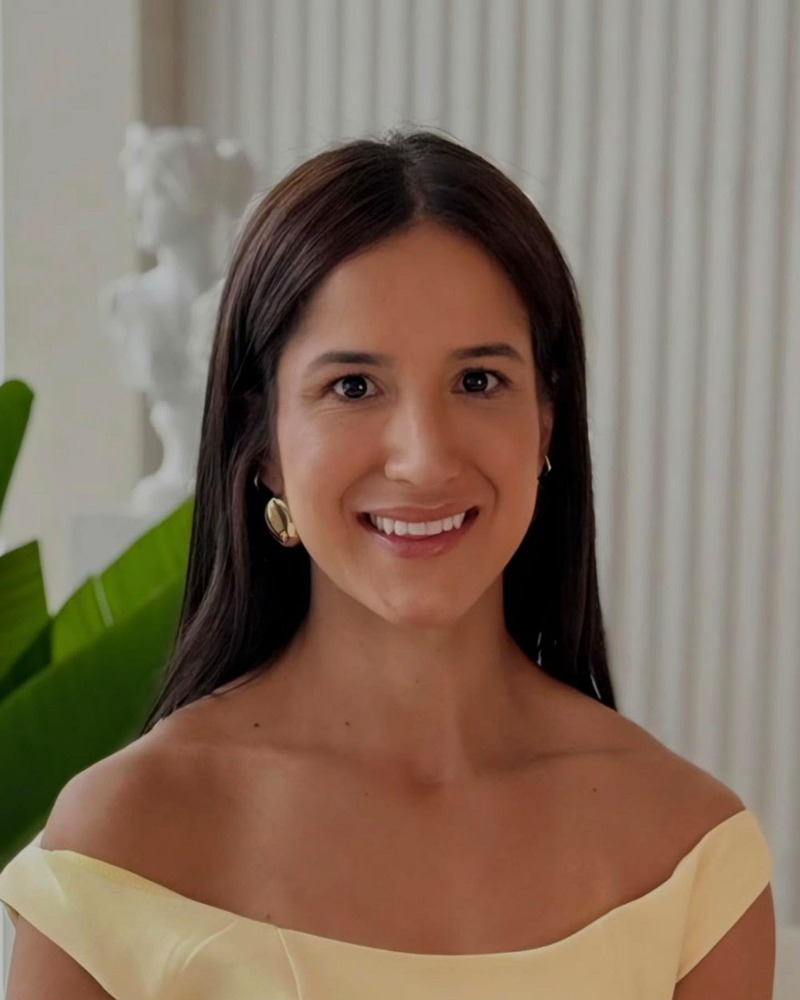
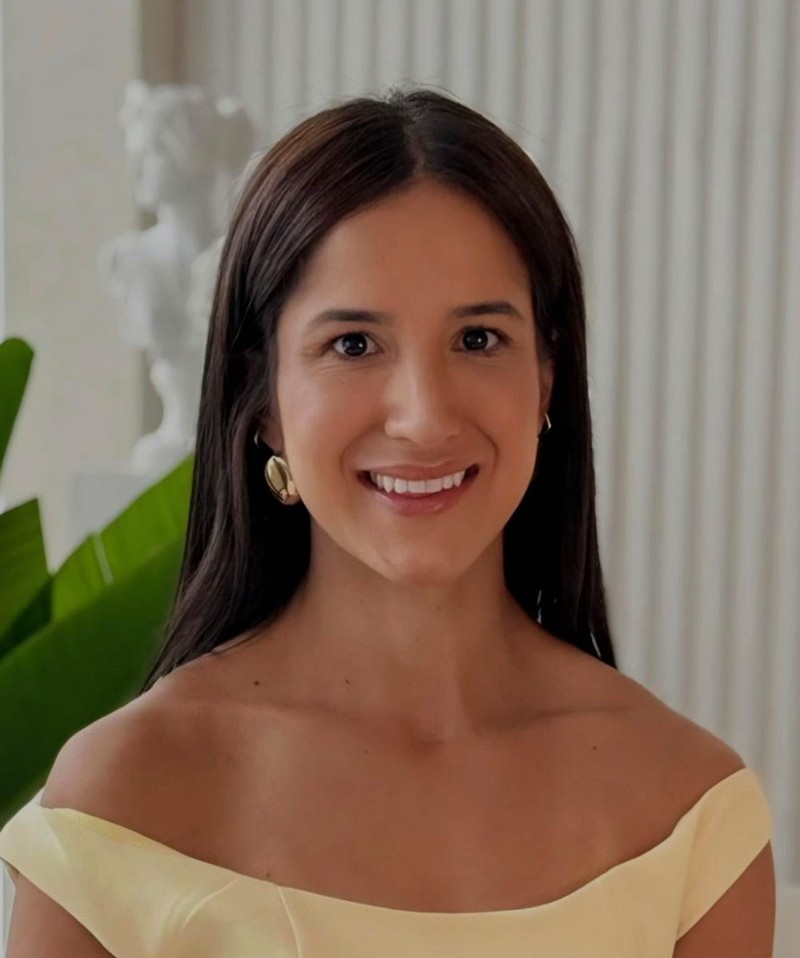
feat: mobile-first — fontes maiores, touch areas, imagens avif
- Mobile: fontes +2-3px em todo o site, botões maiores, mais padding
- Quiz mobile: opções com 16px, inputs 17px, botões 17px
- FAQ/IG mobile: perguntas 20px, respostas 16px
- Imagens: limpa jpgs deletados, adiciona avifs corretos
- Adiciona blefaroplastia.jpg

diff --git a/index.html b/index.html
@@ -407,62 +407,69 @@ footer{background:var(--v3);padding:3rem 0 2rem}
 .word{display:inline-block;opacity:0;transform:translateY(18px);animation:wordIn .65s var(--ease) forwards}
 @keyframes wordIn{to{opacity:1;transform:none}}
 
-/* ── MOBILE GLOBAL ───────────────────────────────────────── */
+/* ── MOBILE GLOBAL — 90% do tráfego é celular ─────────── */
 @media(max-width:640px){
   /* Ocultar WA float, usar bottom bar */
   .wa-float{display:none}
   /* Espaço para bottom bar */
-  body{padding-bottom:80px}
-  /* Container */
-  .container{padding:0 1.1rem}
-  /* Sections */
-  .section{padding:3rem 0}
-  /* Reveal: menos delay em mobile para não ficar travado */
+  body{padding-bottom:85px}
+  /* Container — mais respiro lateral */
+  .container{padding:0 1.25rem}
+  /* Sections — mais compacto pra não ter scroll infinito */
+  .section{padding:3.5rem 0}
+  /* Reveal: zero delay em mobile — conteúdo aparece imediato */
   .reveal-d1,.reveal-d2,.reveal-d3,.reveal-d4{transition-delay:0s}
+  .reveal{transition-duration:.5s}
 
   /* ── NAV ── */
   nav{padding:.9rem 0}
   nav.scrolled{padding:.65rem 0}
   .nav-brand{display:none}
-  .nav-monogram{width:34px;height:34px;font-size:14px}
-  .nav-cta{padding:8px 16px;font-size:14px}
+  .nav-monogram{width:36px;height:36px;font-size:15px}
+  .nav-cta{padding:10px 20px;font-size:15px}
 
   /* ── HERO ── */
   .hero{min-height:100svh;min-height:100dvh}
   .hero-inner{padding:6rem 0 5rem;max-width:100%}
-  .hero-tag{margin-bottom:1.25rem;padding:5px 13px}
-  .hero-tag-text{font-size:12px;letter-spacing:1.5px}
-  h1.hero-title{font-size:clamp(36px,9vw,46px);line-height:1.08;margin-bottom:1rem}
-  .hero-sub{font-size:16px;line-height:1.7;margin-bottom:1.75rem;max-width:100%}
+  .hero-tag{margin-bottom:1.25rem;padding:6px 14px}
+  .hero-tag-text{font-size:13px;letter-spacing:1.5px}
+  h1.hero-title{font-size:clamp(38px,10vw,48px);line-height:1.08;margin-bottom:1.1rem}
+  .hero-sub{font-size:17px;line-height:1.7;margin-bottom:1.75rem;max-width:100%}
   .hero-actions{flex-direction:column;gap:10px}
-  .btn-hero-primary,.btn-hero-secondary{width:100%;justify-content:center;padding:15px 20px}
+  .btn-hero-primary,.btn-hero-secondary{width:100%;justify-content:center;padding:16px 20px;font-size:17px}
   .hero-badges{gap:12px;margin-top:2rem;padding-top:1.5rem}
-  .hero-badge-text{font-size:13px}
+  .hero-badge-text{font-size:14px}
   .hero-deco-line,.hero-deco-circle,.hero-scroll-hint{display:none}
 
   /* ── STATS ── */
   .stats-grid{grid-template-columns:repeat(2,1fr)}
-  .stat-item{padding:1.75rem 1rem}
+  .stat-item{padding:2rem 1rem}
   .stat-item::after{display:none}
   .stat-item:nth-child(odd)::after{content:'';display:block;position:absolute;right:0;top:20%;height:60%;width:1px;background:rgba(255,255,255,.08)}
-  .stat-number{font-size:clamp(32px,8vw,42px)}
-  .stat-label{font-size:12px;letter-spacing:1.5px}
+  .stat-number{font-size:clamp(34px,9vw,44px)}
+  .stat-label{font-size:13px;letter-spacing:1.5px}
 
   /* ── SOBRE ── */
   .sobre-grid{gap:2rem}
   .sobre-img-outer{aspect-ratio:3/2}
   .sobre-deco{display:none}
   .sobre-credential{position:static;margin-top:-.5rem;border-radius:0 0 var(--r) var(--r)}
-  .sobre-content h2{font-size:clamp(28px,7vw,36px)}
-  .sobre-body{font-size:15px}
-  .cred-list li{font-size:14px}
+  .sobre-content .eyebrow{font-size:13px}
+  .sobre-content h2{font-size:clamp(30px,8vw,38px)}
+  .sobre-body{font-size:16px}
+  .cred-list li{font-size:15px}
+  .cred-text-name{font-size:16px}
+  .cred-text-crm{font-size:13px}
 
   /* ── PROCEDIMENTOS ── */
   .procs-intro{margin-bottom:2rem}
-  .procs-grid{grid-template-columns:1fr;gap:1rem}
-  .proc-img-wrap{aspect-ratio:16/7}
-  .proc-body{padding:1.1rem 1rem}
-  .proc-name{font-size:20px}
+  .procs-intro .eyebrow{font-size:13px}
+  .procs-grid{grid-template-columns:1fr;gap:1.1rem}
+  .proc-img-wrap{aspect-ratio:16/8}
+  .proc-body{padding:1.25rem 1.1rem}
+  .proc-name{font-size:22px}
+  .proc-desc{font-size:15px}
+  .proc-cta{font-size:15px}
   /* Em mobile, mostrar hover state sempre visível sem precisar de hover */
   .proc-card:active::before{opacity:1}
   .proc-card:active .proc-name{color:#fff}
@@ -471,53 +478,87 @@ footer{background:var(--v3);padding:3rem 0 2rem}
 
   /* ── QUIZ ── */
   .quiz-intro{margin-bottom:1.75rem}
-  .quiz-intro h2{font-size:clamp(24px,6vw,32px)}
-  .quiz-card{border-radius:16px;padding:1.5rem 1.2rem}
+  .quiz-intro .eyebrow{font-size:13px}
+  .quiz-intro h2{font-size:clamp(26px,7vw,34px)}
+  .quiz-card{border-radius:16px;padding:1.75rem 1.35rem}
   .quiz-card::before{display:none}
   .qlogo{margin-bottom:1.25rem}
-  .qlogo-mark{width:42px;height:42px;font-size:16px}
-  h3.qtitle{font-size:clamp(22px,5.5vw,26px)}
-  .qsub{font-size:14px}
-  .qbenefits li{font-size:14px}
-  .qtit{font-size:21px;line-height:1.3}
-  .opt{padding:11px 13px;gap:10px;-webkit-tap-highlight-color:transparent}
-  .opt-txt{font-size:14px}
-  .opt-sub{font-size:13px}
+  .qlogo-mark{width:44px;height:44px;font-size:17px}
+  .qlogo-name{font-size:13px}
+  .quiz-pill{font-size:14px}
+  h3.qtitle{font-size:clamp(24px,6vw,28px)}
+  .qsub{font-size:16px}
+  .qbenefits li{font-size:16px;padding:10px 0}
+  .qtit{font-size:22px;line-height:1.3}
+  .qcat{font-size:13px}
+  .opt{padding:14px 15px;gap:12px;border-radius:12px;-webkit-tap-highlight-color:transparent}
+  .opt-txt{font-size:16px}
+  .opt-sub{font-size:14px}
+  .opt-radio{width:20px;height:20px}
   .opt:active{border-color:var(--v);background:var(--v4)}
-  .finput{font-size:16px;padding:13px 14px}
-  .btn{font-size:16px;padding:15px 18px}
-  /* Botão voltar menor em mobile */
-  .btn-g{max-width:80px;font-size:13px;padding:10px 12px}
+  .finput{font-size:17px;padding:15px 16px}
+  .flbl{font-size:13px}
+  .btn{font-size:17px;padding:16px 20px}
+  .btn-g{max-width:88px;font-size:14px;padding:12px 14px}
+  .q-hint{font-size:14px}
+  .cap-tit{font-size:24px}
+  .cap-sub{font-size:16px}
+  .trust-note p{font-size:14px}
 
   /* ── RESULTADO DO QUIZ ── */
-  .res-hero{padding:1.4rem}
-  .rh-prof{font-size:22px}
-  .rh-desc{font-size:14px}
-  .anc-val{font-size:32px}
+  .res-hero{padding:1.6rem}
+  .rh-tag{font-size:13px}
+  .rh-name{font-size:14px}
+  .rh-prof{font-size:24px}
+  .rh-desc{font-size:15px}
+  .rinfo{padding:1.25rem}
+  .ri-lbl{font-size:13px}
+  .ri-val{font-size:22px}
+  .ri-desc{font-size:15px}
+  .anc-val{font-size:34px}
+  .anc-range{font-size:14px}
+  .anc-lbl{font-size:13px}
+  .ct-title{font-size:16px}
+  .ct-sub{font-size:14px}
+  .ct-list li{font-size:15px}
+  .ct-pval{font-size:26px}
+  .ct-pnote{font-size:14px}
+  .urg-txt{font-size:15px}
+  .disc{font-size:13px}
 
   /* ── DEPOIMENTOS ── */
   .deps-intro{margin-bottom:2rem}
+  .deps-intro .eyebrow{font-size:13px}
   .deps-grid{gap:1rem}
-  .dep-card{padding:1.35rem}
-  .dep-quote{font-size:28px}
-  .dep-txt{font-size:15px}
+  .dep-card{padding:1.5rem}
+  .dep-stars{font-size:15px}
+  .dep-txt{font-size:16px}
+  .dep-nome{font-size:16px}
+  .dep-proc{font-size:14px}
 
   /* ── BLOG ── */
   .blog-intro{margin-bottom:2rem}
+  .blog-intro .eyebrow{font-size:13px}
   .blog-grid{gap:1rem}
-  .blog-title{font-size:18px}
-  .blog-excerpt{font-size:14px}
+  .blog-cat{font-size:13px}
+  .blog-title{font-size:20px}
+  .blog-excerpt{font-size:15px}
+  .blog-leia{font-size:15px}
 
   /* ── CTA FINAL ── */
   .cta-final{padding:3.5rem 0}
-  .cta-final h2{font-size:clamp(28px,7vw,36px)}
-  .cta-final p{font-size:15px;margin-bottom:1.75rem}
-  .btn-cta-final{width:100%;justify-content:center;padding:15px 24px;font-size:16px}
+  .cta-final .eyebrow{font-size:13px}
+  .cta-final h2{font-size:clamp(30px,8vw,38px)}
+  .cta-final p{font-size:16px;margin-bottom:1.75rem}
+  .btn-cta-final{width:100%;justify-content:center;padding:17px 24px;font-size:17px}
 
   /* ── FOOTER ── */
   footer{padding:2.25rem 0 1.75rem}
   .footer-grid{gap:1.75rem;margin-bottom:1.75rem}
-  .footer-bottom{flex-direction:column;gap:.35rem;text-align:center}
+  .footer-desc{font-size:15px}
+  .footer-heading{font-size:13px}
+  .footer-link{font-size:16px;padding:6px 0}
+  .footer-bottom{flex-direction:column;gap:.35rem;text-align:center;font-size:14px}
 }
 
 /* ── FAQ ────────────────────────────────────────────────── */
@@ -556,24 +597,32 @@ footer{background:var(--v3);padding:3rem 0 2rem}
 
 @media(max-width:640px){
   .faq-intro{margin-bottom:2rem}
-  .faq-q{padding:1rem 0}
-  .faq-q-text{font-size:18px}
-  .faq-q-icon{width:24px;height:24px}
-  .faq-q-icon svg{width:10px;height:10px}
-  .faq-a-text{font-size:14px}
-  .ig-inner{padding:3rem 0}
-  .ig-icon{width:52px;height:52px;border-radius:14px}
-  .ig-icon svg{width:24px;height:24px}
-  .ig-stats{gap:1.75rem}
-  .ig-stat-num{font-size:26px}
+  .faq-intro .eyebrow{font-size:13px}
+  .faq-q{padding:1.1rem 0}
+  .faq-q-text{font-size:20px}
+  .faq-q-icon{width:28px;height:28px}
+  .faq-q-icon svg{width:11px;height:11px}
+  .faq-a-text{font-size:16px}
+  .ig-inner{padding:3.5rem 0}
+  .ig-icon{width:56px;height:56px;border-radius:15px}
+  .ig-icon svg{width:26px;height:26px}
+  .ig-handle{font-size:26px}
+  .ig-desc{font-size:16px}
+  .ig-stats{gap:2rem}
+  .ig-stat-num{font-size:28px}
+  .ig-stat-lbl{font-size:13px}
+  .ig-cta{font-size:16px;padding:14px 28px}
 }
 
 /* ── AJUSTES FINOS 390px (iPhone 14 Pro e similares) ──── */
 @media(max-width:390px){
-  h1.hero-title{font-size:34px}
-  .hero-sub{font-size:15px}
+  h1.hero-title{font-size:36px}
+  .hero-sub{font-size:16px}
+  .btn-hero-primary,.btn-hero-secondary{font-size:16px;padding:15px 18px}
   .stat-item{padding:1.5rem .75rem}
-  .stat-number{font-size:30px}
+  .stat-number{font-size:32px}
+  .qtit{font-size:20px}
+  .opt-txt{font-size:15px}
 }
 </style>
 </head>